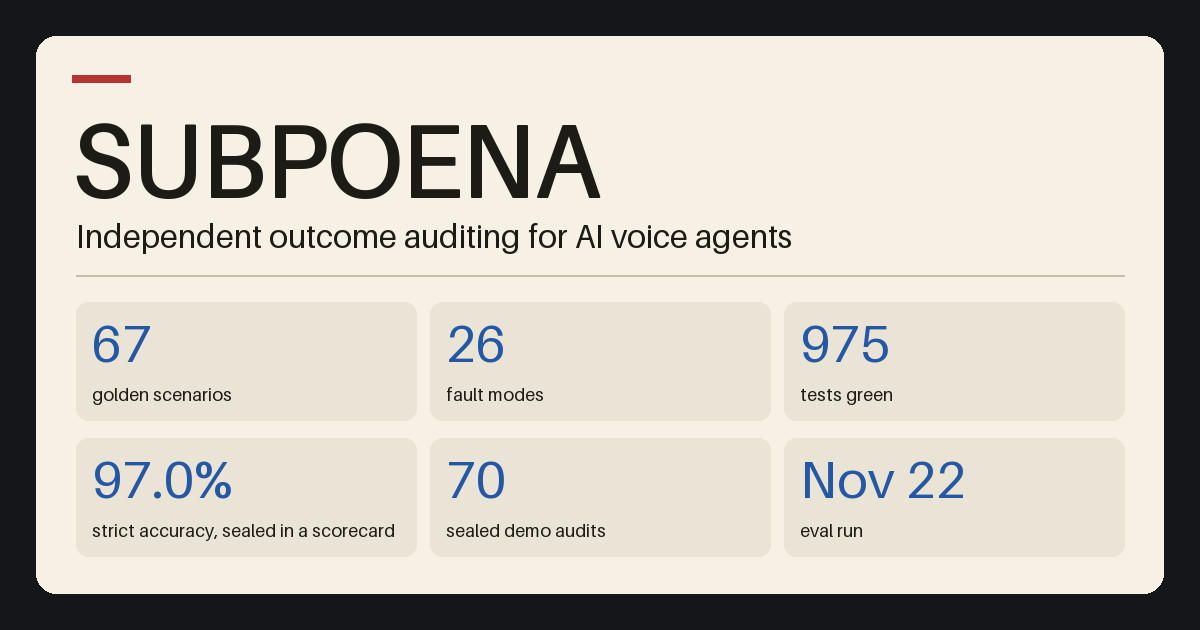
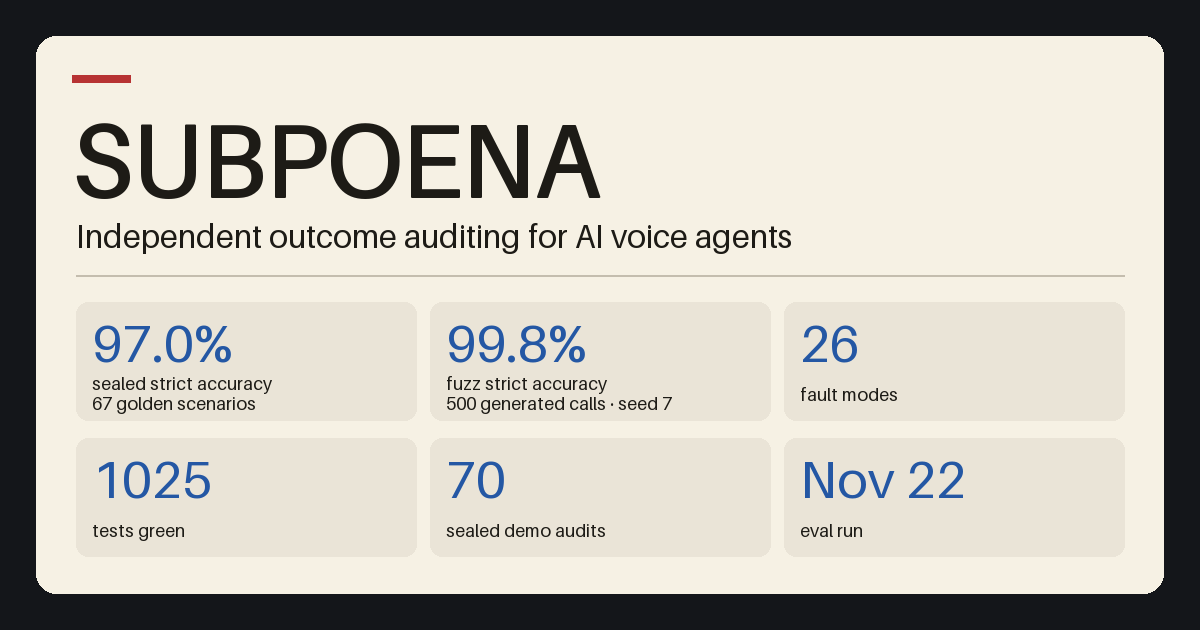
Show fuzz strict accuracy in landing stats

diff --git a/docs/index.html b/docs/index.html
@@ -111,6 +111,7 @@ h2 { font:700 30px var(--mono); letter-spacing:.06em; margin:0 0 8px; }
 .stat { background:var(--panel); border:1px solid var(--line); border-radius:12px; padding:24px; text-align:center; }
 .stat b { display:block; font:700 34px var(--mono); color:var(--accent); }
 .stat span { color:var(--dim); font-size:13px; }
+.stat span a { text-decoration:underline; }
 
 .arch { background:var(--panel); border:1px solid var(--line); border-radius:12px; padding:26px;
   overflow-x:auto; }
@@ -242,10 +243,10 @@ footer a { margin:0 10px; }
     proves the auditor finds it - deterministically.</p>
   <div class="stats">
     <!-- metrics:landing-stats:start -->
-    <div class="stat"><b>67</b><span>golden scenarios</span></div>
+    <div class="stat"><b>97.0%</b><span>sealed strict accuracy · 67 golden scenarios</span></div>
+    <div class="stat"><b>99.8%</b><span><a href="https://github.com/aneesh2411/subpoena/blob/main/docs/FAILURE_ANALYSIS.md">fuzz strict accuracy · 500 generated calls · seed 7</a></span></div>
     <div class="stat"><b>26</b><span>fault modes</span></div>
-    <div class="stat"><b>1024</b><span>tests green</span></div>
-    <div class="stat"><b>97.0%</b><span>strict accuracy, sealed in a scorecard</span></div>
+    <div class="stat"><b>1025</b><span>tests green</span></div>
     <div class="stat"><b>70</b><span>sealed demo audits</span></div>
     <div class="stat"><b>Nov 22</b><span>eval run</span></div>
 <!-- metrics:landing-stats:end -->

diff --git a/scripts/generate_social_preview.py b/scripts/generate_social_preview.py
@@ -29,7 +29,10 @@ def landing_stats() -> list[tuple[str, str]]:
     )
     if block is None:
         raise ValueError("Missing landing stats block in docs/index.html")
-    rows = re.findall(r'<div class="stat"><b>([^<]+)</b><span>([^<]+)</span></div>', block[1])
+    rows = re.findall(
+        r'<div class="stat"><b>([^<]+)</b><span>(?:<a href="[^"]+">)?([^<]+)(?:</a>)?</span></div>',
+        block[1],
+    )
     if len(rows) != 6:
         raise ValueError(f"Expected six landing stats in docs/index.html, found {len(rows)}")
     return [(unescape(value), unescape(label)) for value, label in rows]
@@ -59,7 +62,11 @@ def render_png() -> bytes:
         y = 302 + row * 136
         draw.rounded_rectangle((x, y, x + 340, y + 118), radius=12, fill="#eae4d7")
         draw.text((x + 16, y + 9), value, font=value_font, fill="#2457a4")
-        draw.text((x + 16, y + 81), label, font=label_font, fill=INK)
+        first_line, separator, rest = label.partition(" · ")
+        caption = f"{first_line}\n{rest}" if separator else label
+        draw.multiline_text(
+            (x + 16, y + (70 if separator else 81)), caption, font=label_font, fill=INK, spacing=2
+        )
 
     buffer = io.BytesIO()
     image.save(buffer, format="PNG", compress_level=9)

diff --git a/scripts/sync_docs.py b/scripts/sync_docs.py
@@ -197,6 +197,7 @@ def fa_ablations_block(results: dict) -> str:
 
 def landing_stats_block(results: dict, scorecard: dict) -> str:
     golden = results["golden"]
+    fuzz = results["fuzz"]
     strict = scorecard["golden"]["call_strict_accuracy"]
     if strict != golden["call_strict_accuracy"]:
         raise RuntimeError(
@@ -208,10 +209,14 @@ def landing_stats_block(results: dict, scorecard: dict) -> str:
     certified_at = datetime.fromisoformat(scorecard["certified_at"])
     month = MONTH_ABBREVIATIONS[certified_at.month - 1]
     stats = [
-        (str(golden["calls"]), "golden scenarios"),
+        (pct(strict), f"sealed strict accuracy · {golden['calls']} golden scenarios"),
+        (
+            pct(fuzz["call_strict_accuracy"]),
+            '<a href="https://github.com/aneesh2411/subpoena/blob/main/docs/FAILURE_ANALYSIS.md">'
+            f"fuzz strict accuracy · {fuzz['calls']} generated calls · seed {fuzz['seed']}</a>",
+        ),
         (str(fault_mode_count()), "fault modes"),
         (str(test_count()), "tests green"),
-        (pct(strict), "strict accuracy, sealed in a scorecard"),
         (str(sealed_demo_audits), "sealed demo audits"),
         (f"{month} {certified_at.day}", "eval run"),
     ]

diff --git a/tests/test_docs_sync.py b/tests/test_docs_sync.py
@@ -2,6 +2,7 @@
 
 from __future__ import annotations
 
+import json
 import subprocess
 import sys
 from pathlib import Path
@@ -29,3 +30,21 @@ def test_landing_stats_include_sealed_demo_audit_count():
     )[0]
     count = sum(path.is_file() for path in (ROOT / "docs/demo/data").glob("audit-*.json"))
     assert f'<div class="stat"><b>{count}</b><span>sealed demo audits</span></div>' in stats
+
+
+def test_landing_stats_include_linked_fuzz_strict_accuracy():
+    fuzz = json.loads((ROOT / "evals/results/latest.json").read_text())["fuzz"]
+    landing = (ROOT / "docs/index.html").read_text()
+    stats = landing.split("<!-- metrics:landing-stats:start -->", 1)[1].split(
+        "<!-- metrics:landing-stats:end -->", 1
+    )[0]
+    accuracy = f"{fuzz['call_strict_accuracy']:.1%}"
+    if fuzz["call_strict_accuracy"] in (0, 1):
+        accuracy = accuracy.replace(".0%", "%")
+    assert stats.count('<div class="stat">') == 6
+    assert (
+        f'<div class="stat"><b>{accuracy}</b><span>'
+        '<a href="https://github.com/aneesh2411/subpoena/blob/main/docs/FAILURE_ANALYSIS.md">'
+        f"fuzz strict accuracy · {fuzz['calls']} generated calls · seed {fuzz['seed']}</a>"
+        "</span></div>"
+    ) in stats
